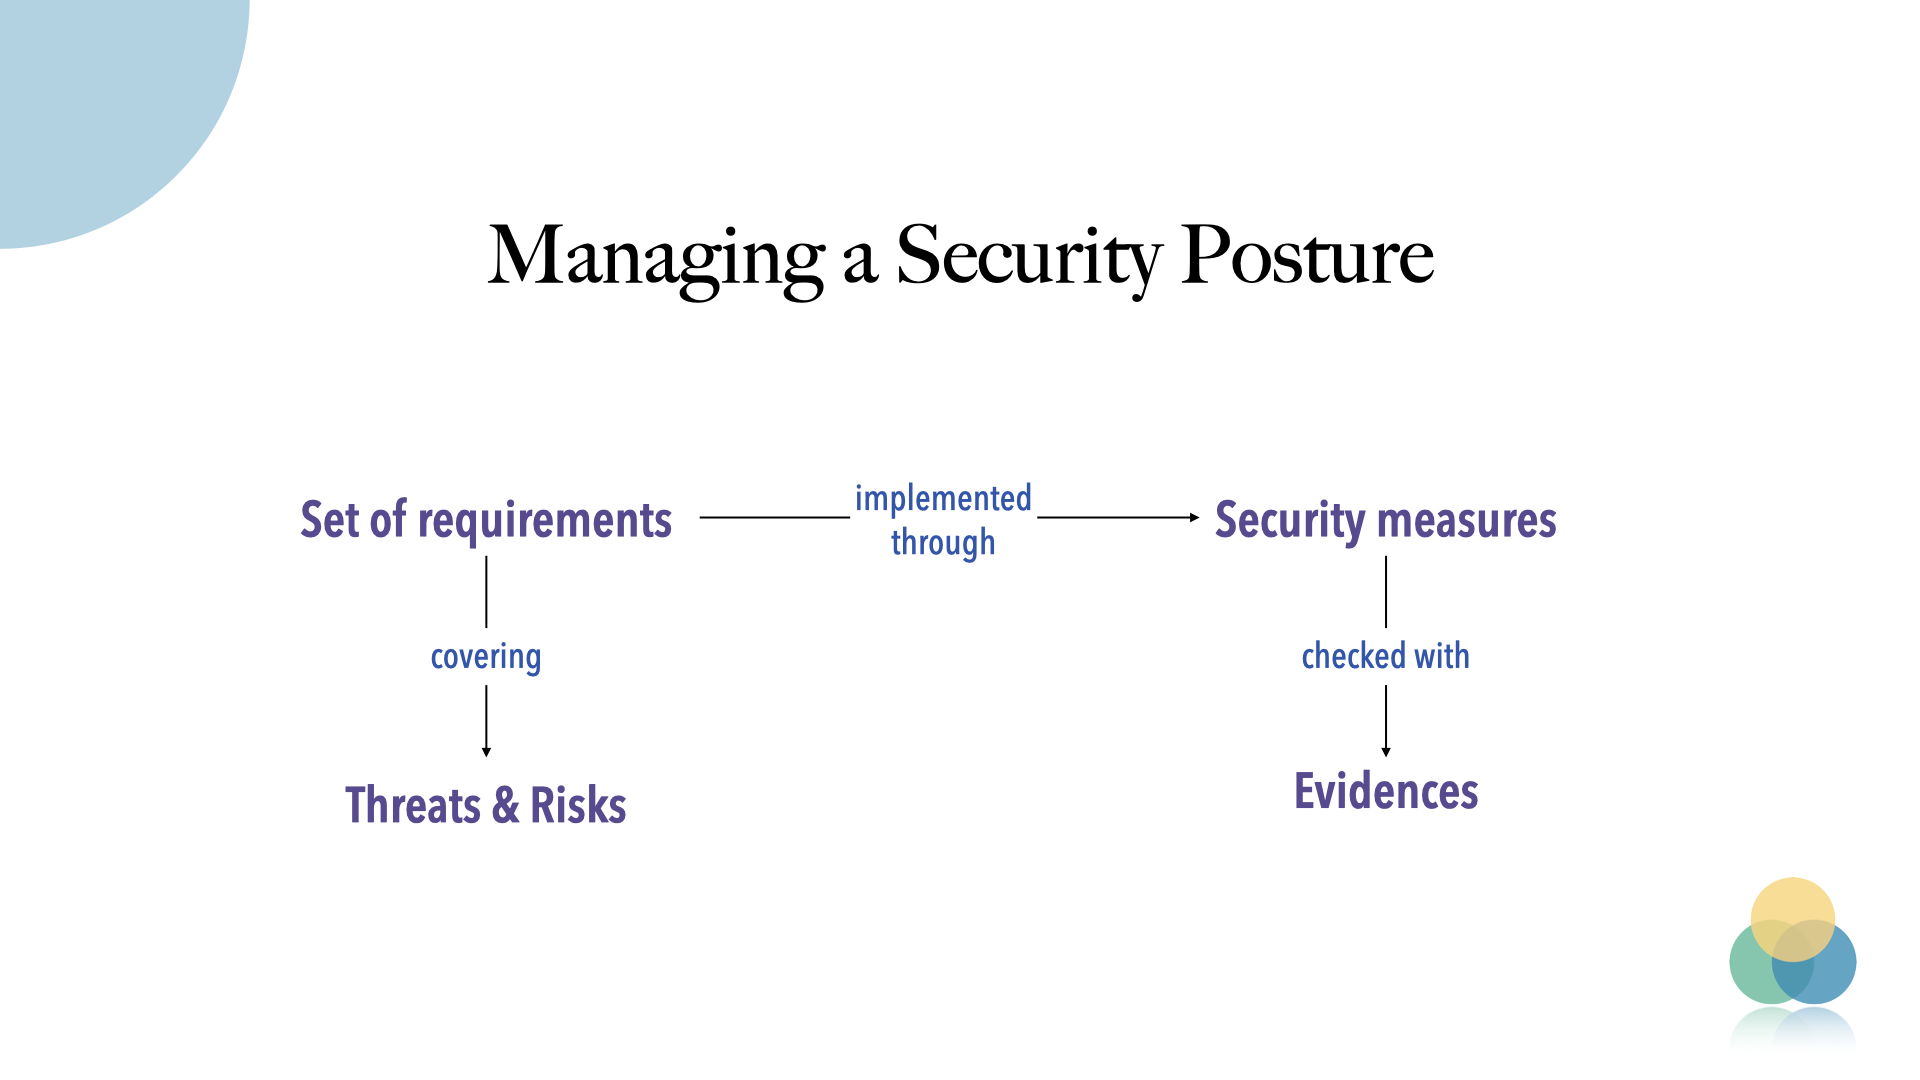
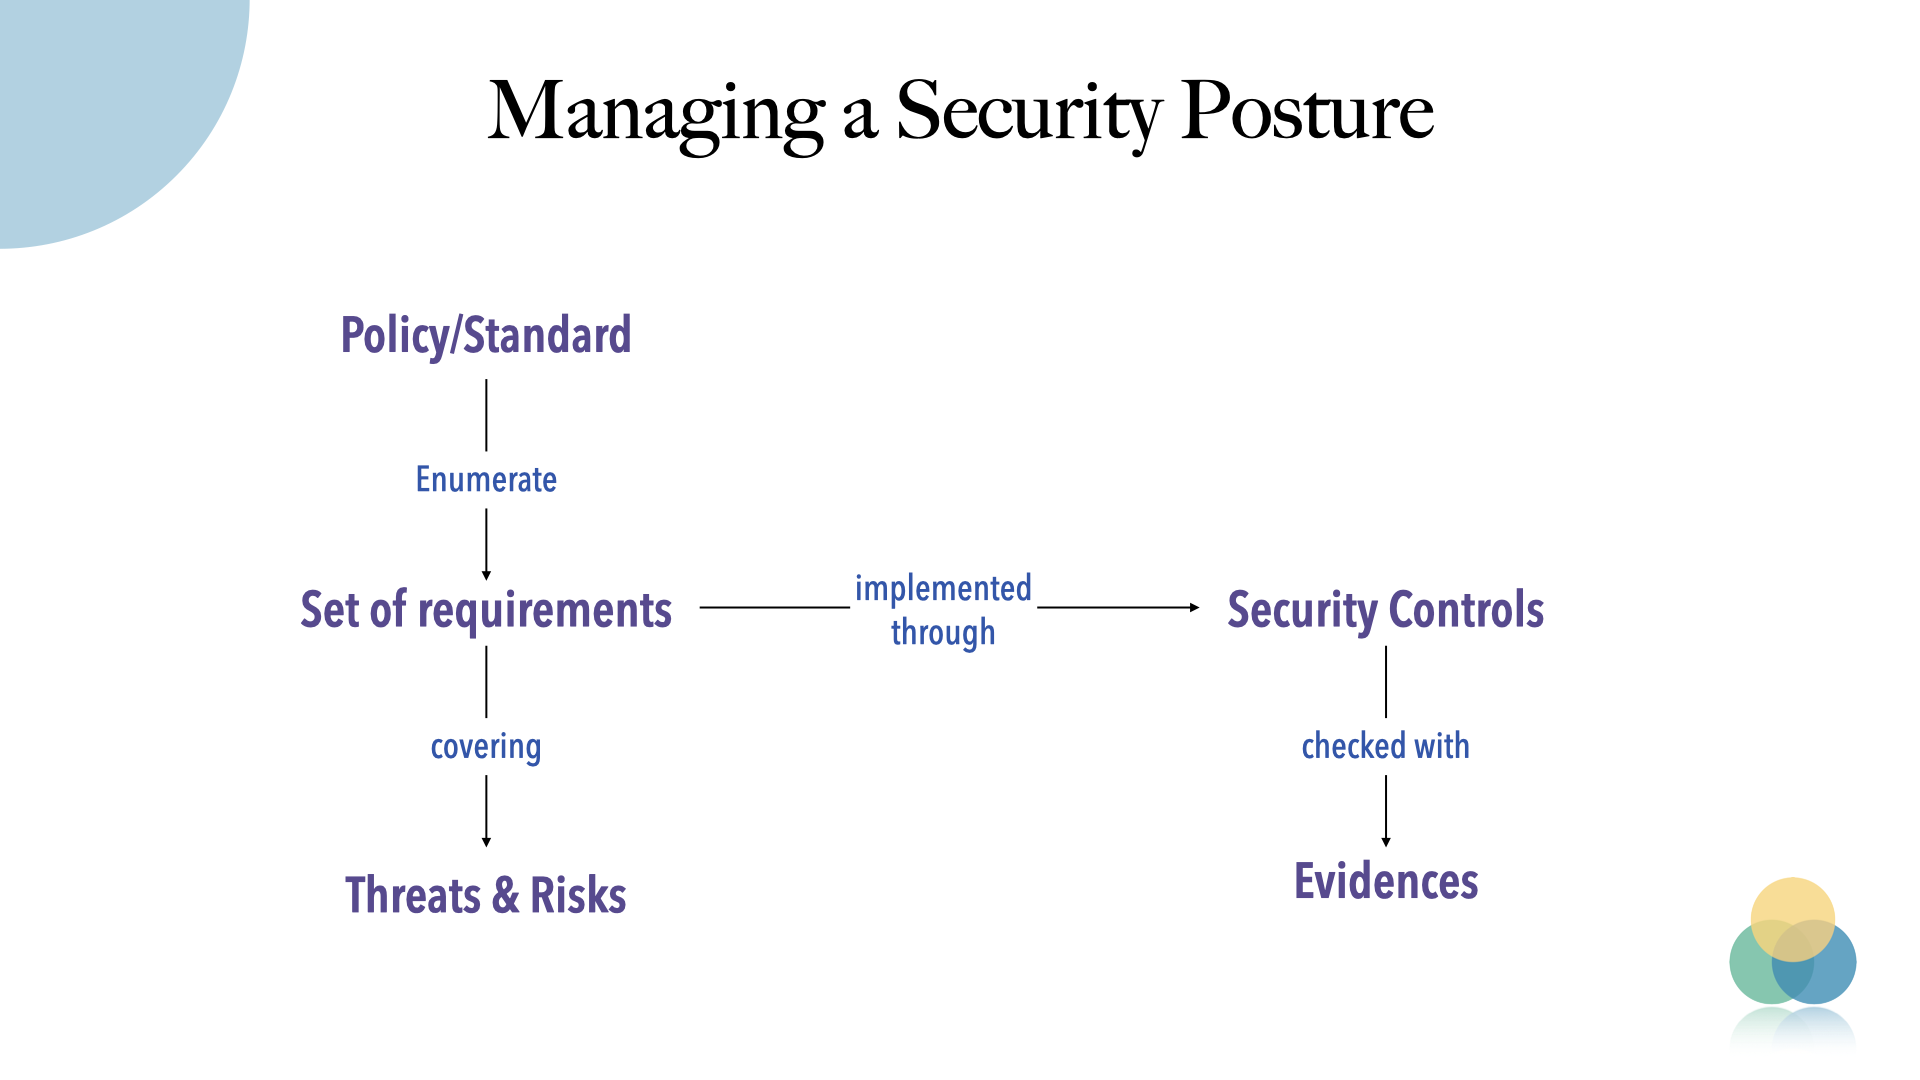
Update readme

diff --git a/README.md b/README.md
@@ -2,22 +2,34 @@
 
 ![](gh_banner.png)
 
-CISO Assistant brings a different take on Cyber Security Posture Management:
+CISO Assistant brings a different take to **GRC** and Cyber Security Posture Management:
 
-- by explicitly decoupling compliance from cybersecurity practices implementation
+- by explicitly decoupling compliance from cybersecurity controls implementation
 - providing simplified tools for decision making
-- while providing capabilities for a program, product or an organization assessment against standard frameworks.
-- you can bring your own framework as well using a simplified DSL
-- aim to be a one stop shop for cyber security management and cover the layers of GRC (Governance, Risk and Compliance)
+- while providing capabilities for a program, product or an organization assessment against standard frameworks
+- has built-in standards, security controls and threats
+- allows to manage a catalog for security controls and threats
+- you can bring your own framework as well using a simple syntax
+- manage audit, evidences collection and report generation
+- aims to be a one stop shop for cyber security management and cover the layers of GRC (Governance, Risk and Compliance)
 
 ![](posture.png)
 
-This decoupling allows you to save considerable amount of time:
+The decoupling allows you to save a considerable amount of time:
 
 - reuse previous assessments,
 - assess a scope against multiple frameworks at the same time,
 - leave the reporting formatting and sanity check to CISO assistant and focus on your remediations
+- balance controls implementation and compliance follow-up
 
+## Quick Start 🚀
+
+> The easiest way to get started is through the [free trial of cloud instance available here](https://intuitem.com/trial).
+
+Alternatively, clone the repo and run:
+```sh
+./docker-compose.sh
+```
 
 ## Documentation
 
@@ -50,7 +62,7 @@ Checkout the [library](/backend/library/libraries/) and [tools](/tools/) for the
 - ANSSI hygiene guide
 - CCB CyberFundamentals Framework
 - CRA
-- and much more: just ask us, if it's an open standard, we'll do it for you free of charge 😉
+- and much more: just ask on [Discord](https://discord.gg/qvkaMdQ8da). If it's an open standard, we'll do it for you, free of charge 😉
 
 ### Add your own framework
 
@@ -62,11 +74,11 @@ You will also find some specific converters in the tools directory (e.g. for CIS
 
 Join our [open Discord community](https://discord.gg/qvkaMdQ8da) to interact with the team and other GRC experts.
 
-## Testing in the cloud
+## Testing the cloud version
 
 > The fastest and easiest way to get started is through the [free trial of cloud instance available here](https://intuitem.com/trial).
 
-## Testing locally - Quick start 🚀
+## Testing locally 🚀
 
 To run CISO Assistant locally in a straightforward way, you can use Docker compose.
 
